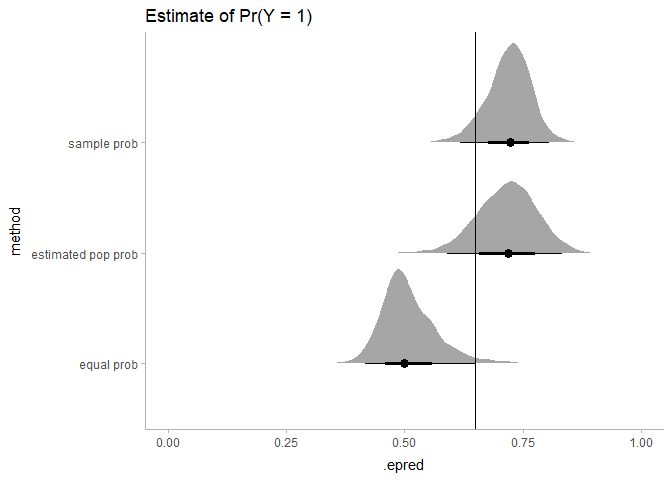
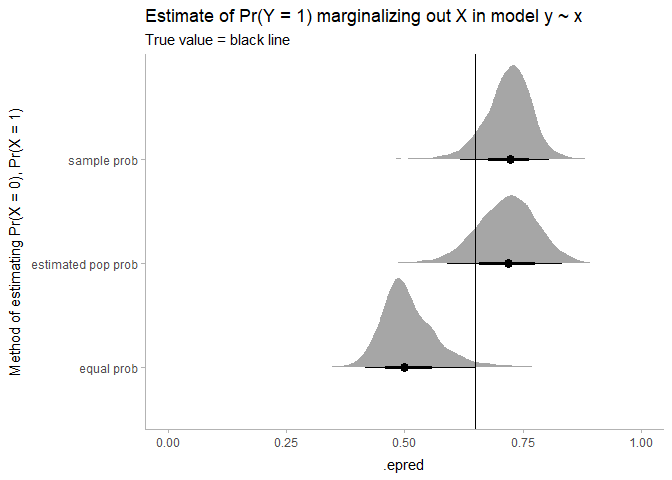
better labels

diff --git a/marginal-mean-logit.md b/marginal-mean-logit.md
@@ -263,7 +263,9 @@ bind_rows(
   geom_vline(xintercept = marginal_p_y1) +
   xlim(c(0,1)) +
   labs(
-    title = "Estimate of Pr(Y = 1)"
+    title = "Estimate of Pr(Y = 1) marginalizing out X in model y ~ x",
+    subtitle = "True value = black line",
+    y = "Method of estimating Pr(X = 0), Pr(X = 1)",
   )
 ```
 
